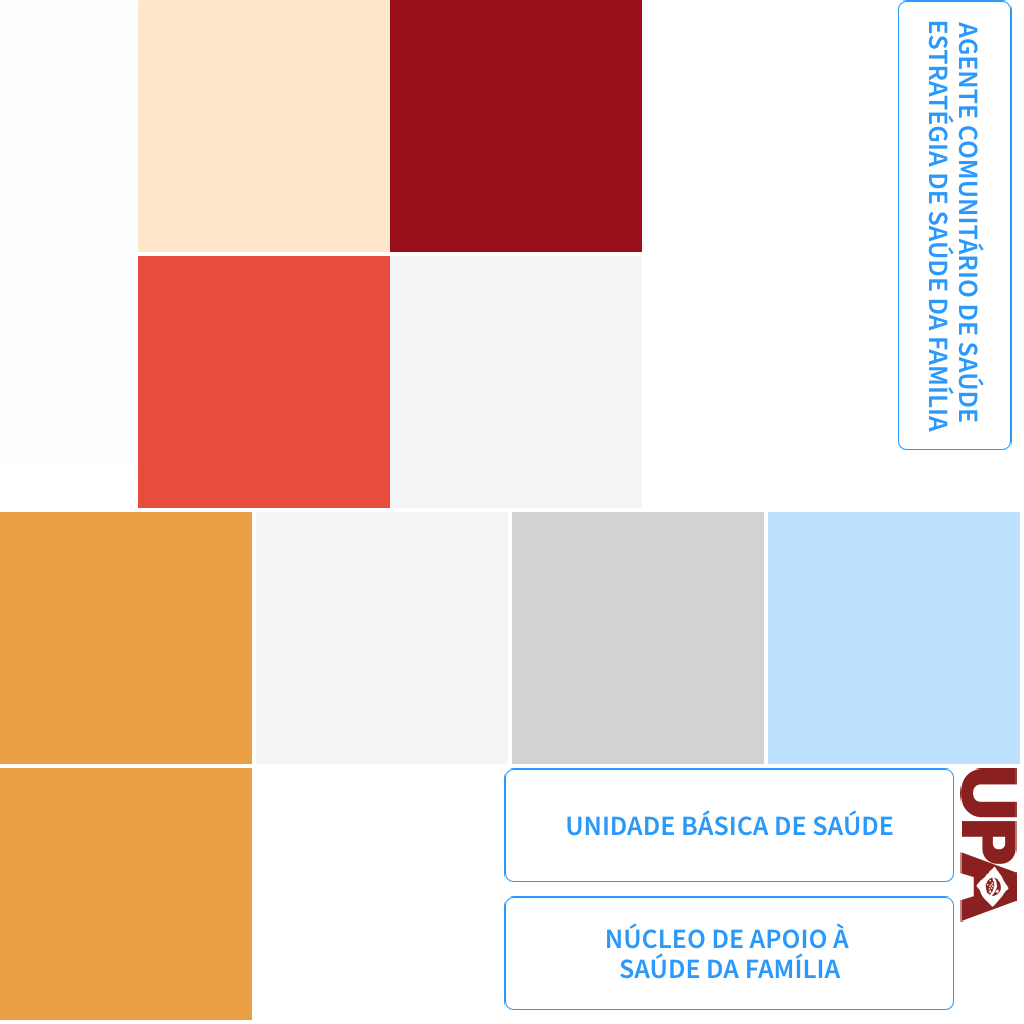
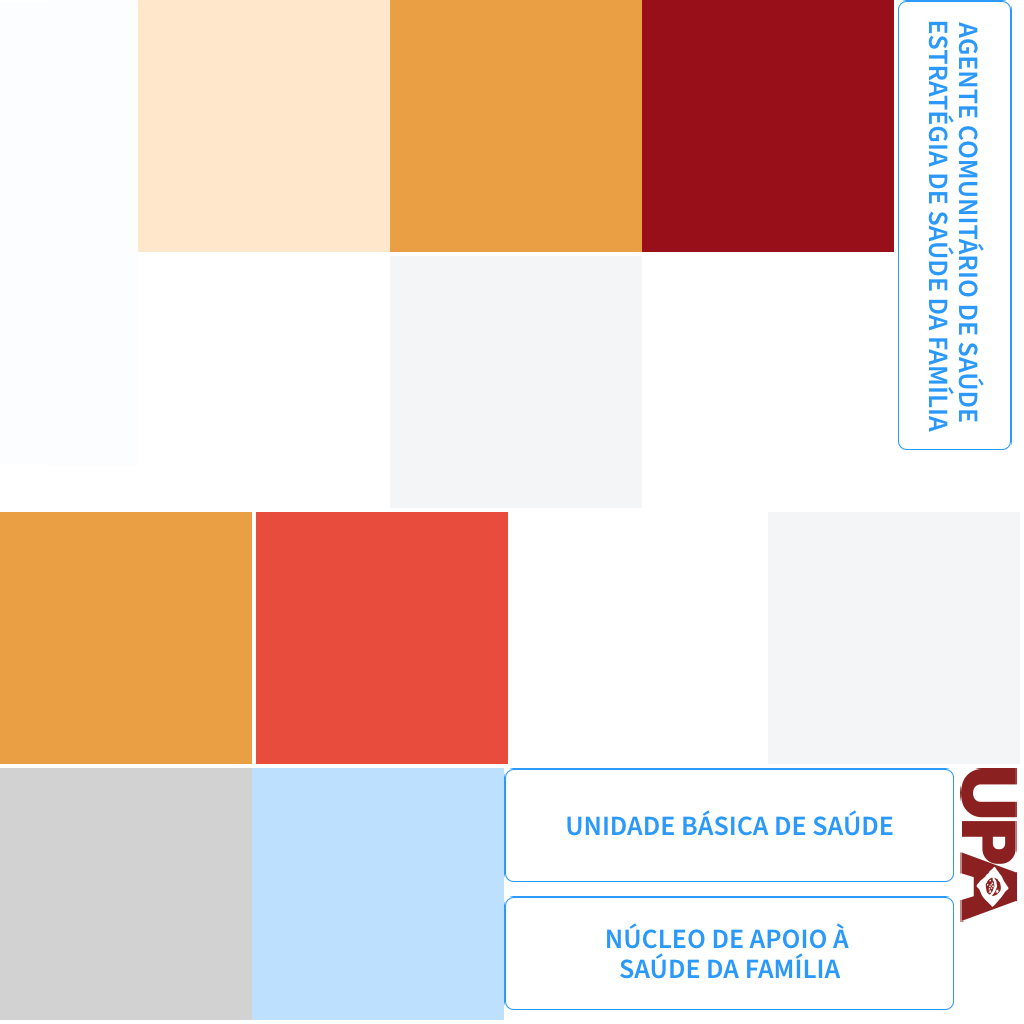
Modificando cabecalho e mudando posicao do botao de voltar.

diff --git a/scripts/c3runtime.js b/scripts/c3runtime.js
@@ -3851,7 +3851,7 @@ self.C3_ExpressionFuncs = [
 		() => 0,
 		p => {
 			const f0 = p._GetNode(0).GetBoundMethod();
-			return () => f0(800, 1600);
+			return () => f0(800, 1580);
 		},
 		p => {
 			const f0 = p._GetNode(0).GetBoundMethod();
@@ -3864,20 +3864,20 @@ self.C3_ExpressionFuncs = [
 		() => 720,
 		p => {
 			const n0 = p._GetNode(0);
-			return () => (n0.ExpObject() - 17);
+			return () => (n0.ExpObject() - 16);
 		},
 		p => {
 			const n0 = p._GetNode(0);
 			return () => (n0.ExpObject() + 10);
 		},
-		() => 480,
+		() => 460,
 		p => {
 			const n0 = p._GetNode(0);
 			return () => (n0.ExpObject() - 10);
 		},
 		p => {
 			const n0 = p._GetNode(0);
-			return () => (n0.ExpObject() + 17);
+			return () => (n0.ExpObject() + 16);
 		}
 ];
 
